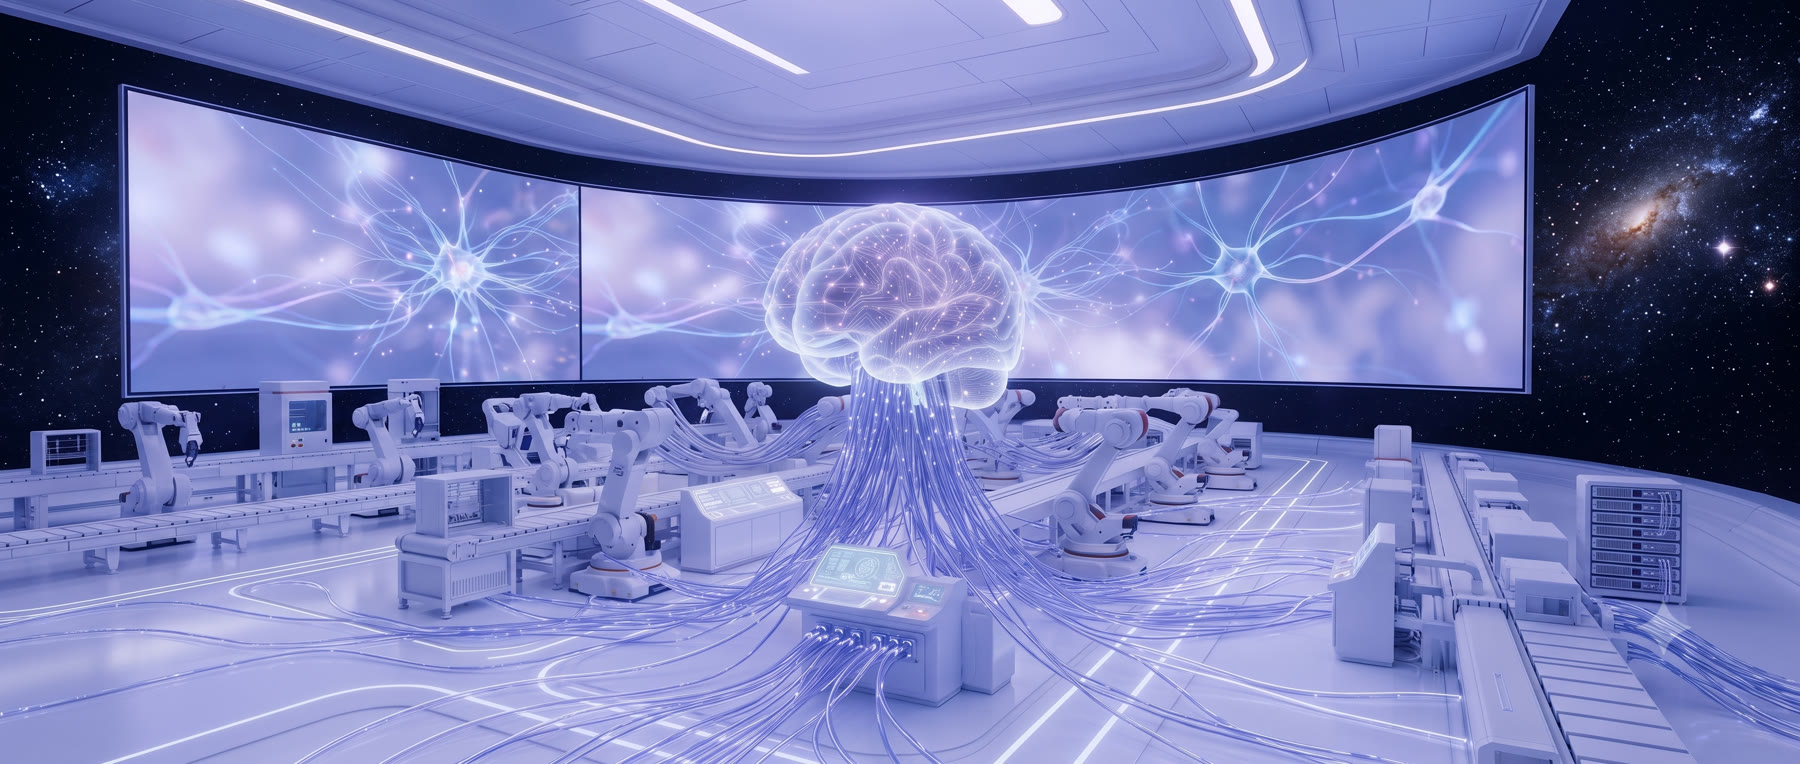
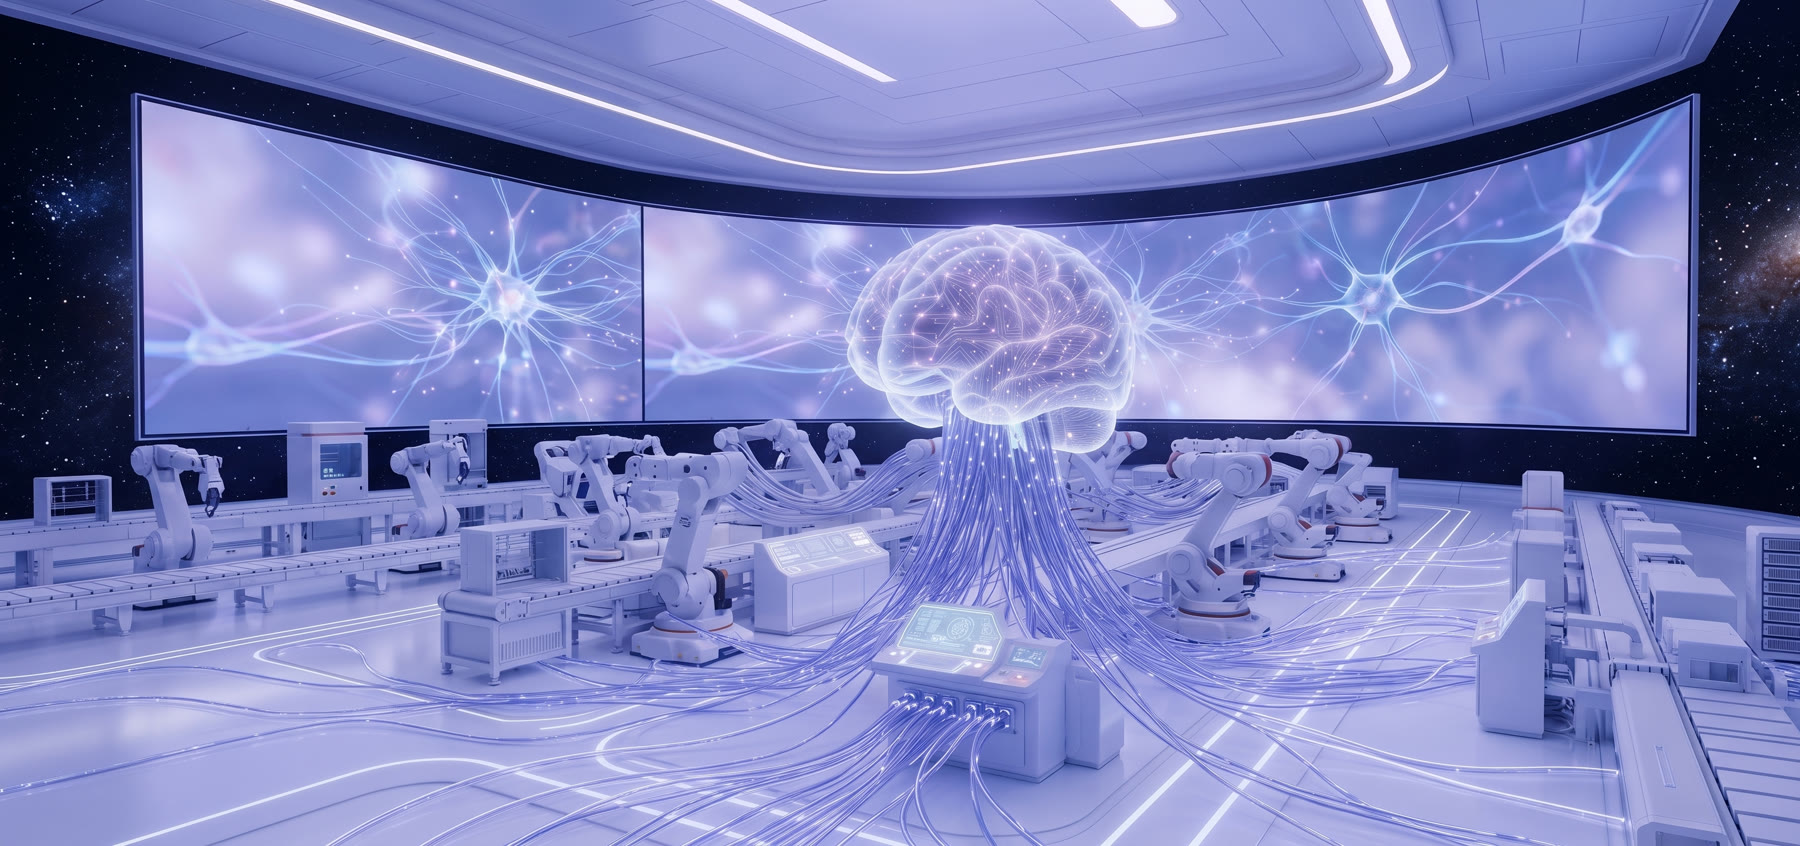
히어로 우측 워터마크 크롭, 온톨로지 화살표 단일화 + 글로우 펄스

diff --git a/index.html b/index.html
@@ -183,21 +183,18 @@ section{padding:72px 0}
 .onto-layer li b{font-weight:800;color:var(--ink-2)}
 .onto-layer li span{color:var(--sub);font-size:12px}
 @media(max-width:768px){.onto-layer{flex-direction:column;align-items:flex-start;gap:14px}.onto-layer-head{width:auto}}
-.onto-up{display:flex;flex-direction:column;align-items:center;gap:4px;padding:5px 0}
-.onto-up::before,.onto-up i,.onto-up::after{
-  content:"";display:block;width:44px;height:13px;
+.onto-up{display:flex;justify-content:center;padding:8px 0}
+.onto-up i{
+  display:block;width:48px;height:22px;
   background:var(--grad-btn);clip-path:polygon(50% 0,0 100%,100% 100%);
-  animation:flowUp 1.5s ease-in-out infinite;
+  animation:flowUp 1.6s ease-in-out infinite;
 }
-.onto-up::before{animation-delay:.5s}
-.onto-up i{animation-delay:.25s}
-.onto-up::after{animation-delay:0s}
 @keyframes flowUp{
-  0%,100%{opacity:.22}
-  50%{opacity:1}
+  0%,100%{opacity:.3;filter:drop-shadow(0 0 0 rgba(151,27,253,0))}
+  50%{opacity:1;filter:drop-shadow(0 4px 12px rgba(151,27,253,.55))}
 }
 @media (prefers-reduced-motion:reduce){
-  .onto-up::before,.onto-up i,.onto-up::after{animation:none;opacity:1;transform:none}
+  .onto-up i{animation:none;opacity:1}
 }
 .onto-band{
   border-radius:30px;padding:42px 38px;color:#fff;
@@ -494,7 +491,7 @@ footer{background:#130926;color:rgba(255,255,255,.42);font-size:13px;padding:30p
       <p class="lead">공장 데이터에 직접 연결되어 분석·진단·자동화를 스스로 수행하는 Agentic AI 플랫폼입니다. 흩어진 데이터를 하나로 모으고, 현장 문제를 진단해 조치 방안까지 제안합니다.</p>
       <div class="hero-ctas">
         <a class="btn btn-grad" href="#contact">도입 문의하기</a>
-        <a class="btn btn-glass" href="#">제품 소개서 다운로드</a>
+        <a class="btn btn-glass" href="#">제품 소개서</a>
       </div>
       <div class="agent-pills">
         <span>리서치</span><span>문서</span><span>ETL</span><span>컨설팅</span><span>워크플로우</span><span class="pill-plus">＋ 커스텀 에이전트</span>
@@ -818,7 +815,7 @@ footer{background:#130926;color:rgba(255,255,255,.42);font-size:13px;padding:30p
     <p>데이터 진단부터 파일럿까지, 도입 전 과정을 안내해 드립니다.</p>
     <div class="hero-ctas">
       <a class="btn btn-grad" href="#">도입 문의하기</a>
-      <a class="btn btn-glass" href="#">제품 소개서 다운로드</a>
+      <a class="btn btn-glass" href="#">제품 소개서</a>
     </div>
   </div>
 </section>